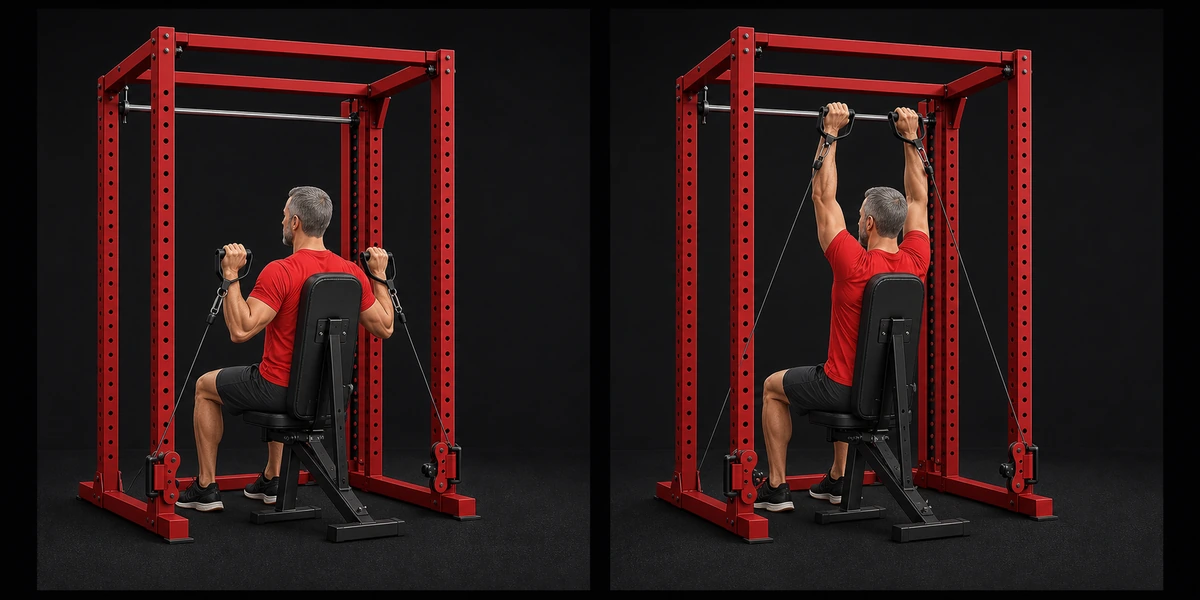
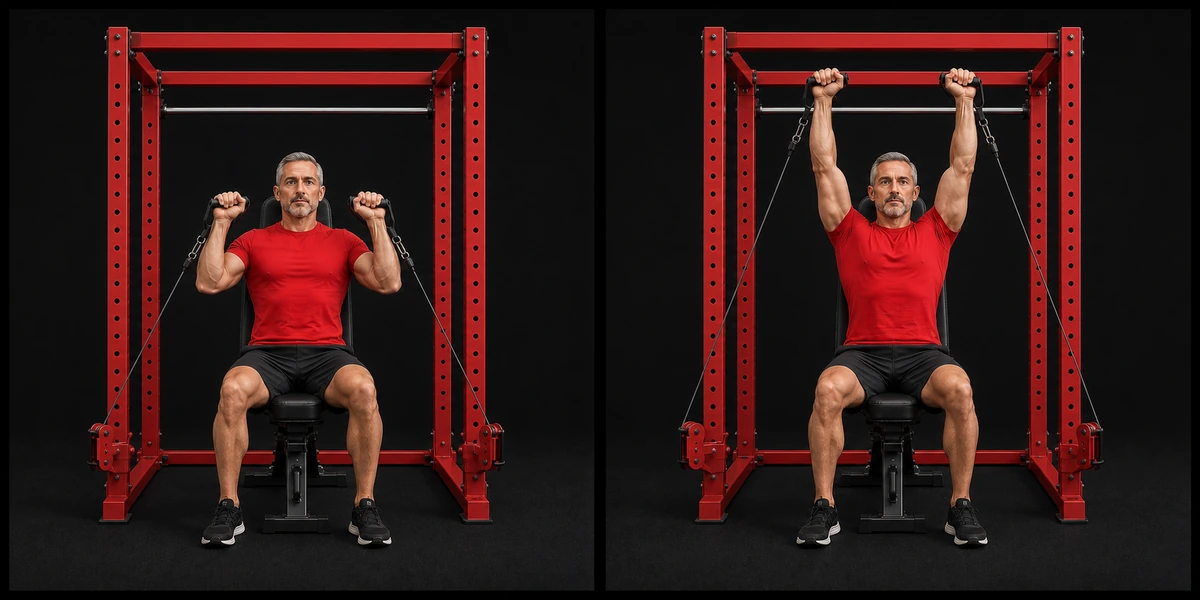
fix: correct cable shoulder press animation setup

diff --git a/app-meta.js b/app-meta.js
@@ -1,9 +1,9 @@
 (function (root) {
   root.ROAD12_META = Object.freeze({
     version: "13.2.0",
-    build: "2026.08.20.6",
-    lastUpdated: "August 20, 2026",
+    build: "2026.08.21.1",
+    lastUpdated: "August 21, 2026",
     gitCommit: null,
-    serviceWorkerCache: "road12-v13-2-52-shell"
+    serviceWorkerCache: "road12-v13-2-53-shell"
   });
 })(typeof self !== "undefined" ? self : window);

diff --git a/sw.js b/sw.js
@@ -1,5 +1,5 @@
 /* Keep this query aligned with app-meta.js so Safari cannot reuse stale imported metadata. */
-importScripts("./app-meta.js?build=2026.08.20.6");
+importScripts("./app-meta.js?build=2026.08.21.1");
 
 const CACHE=self.ROAD12_META.serviceWorkerCache;
 const MEDIA_CACHE=CACHE.endsWith("-shell")?`${CACHE.slice(0,-6)}-media`:`${CACHE}-media`;

diff --git a/docs/CHANGELOG.md b/docs/CHANGELOG.md
@@ -26,6 +26,8 @@ The format follows [Keep a Changelog](https://keepachangelog.com/en/1.1.0/), and
 
 ### Changed
 
+- Corrected the Cable Shoulder Press animation so the athlete faces away from the machine and both cables originate from the low pulleys mounted on the cage's two front uprights.
+- Advanced the maintenance build to `2026.08.21.1` and rotated the offline caches for the corrected exercise media.
 - Advanced the maintenance build to `2026.08.20.6` and rotated the offline caches for interactive exercise details from Workout Preview.
 - Advanced the maintenance build to `2026.08.20.5`, rotated the offline caches, and expanded the home-gym dumbbell inventory to 10, 15, 20, and 25 lb pairs.
 - Dumbbell progression recommendations now advance through owned fixed pairs only; existing active prescriptions and completed workout history remain unchanged.

diff --git a/docs/PROJECT_CONTEXT.md b/docs/PROJECT_CONTEXT.md
@@ -6,10 +6,10 @@ Read this file at the beginning of every Codex or engineering session. It is the
 
 - Product: Road to 12%
 - Version: 13.2.0
-- Build: 2026.08.20.6
-- Last updated: August 20, 2026
-- Service Worker cache: `road12-v13-2-52-shell`
-- Exercise media cache: `road12-v13-2-52-media`
+- Build: 2026.08.21.1
+- Last updated: August 21, 2026
+- Service Worker cache: `road12-v13-2-53-shell`
+- Exercise media cache: `road12-v13-2-53-media`
 - Runtime: static, client-only, offline-first PWA
 - Primary storage key: `road12v5`
 
